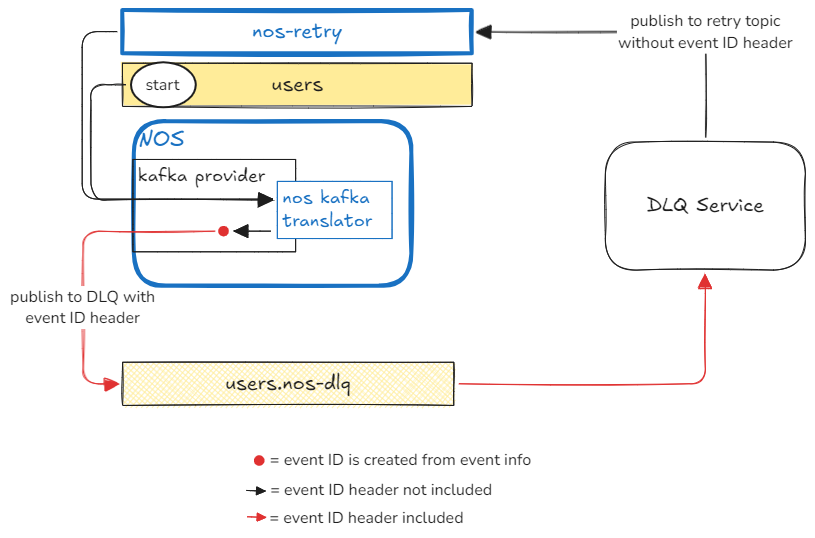
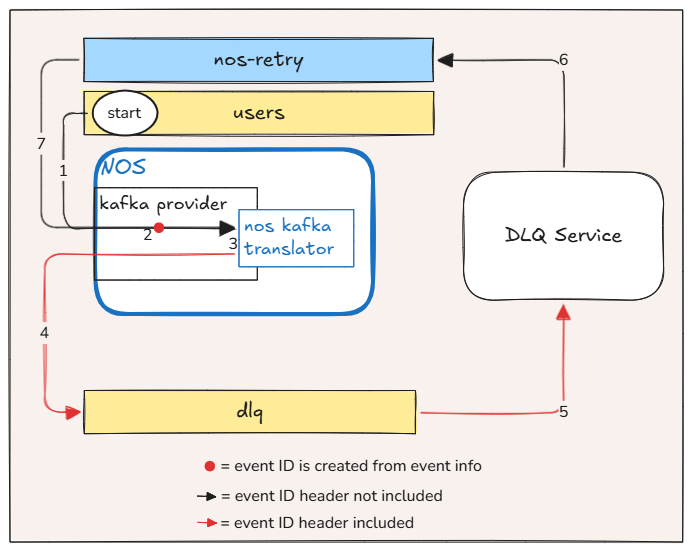
Fix second diagram

diff --git a/61-matamata-turtle/technical_specification.md b/61-matamata-turtle/technical_specification.md
@@ -149,22 +149,23 @@ This differs from the correlation ID, which is propagated across services and pe
 in the database in the case of outbox events.
 
 Consider this example where some unnamed service publishes an event to the
-the `users` topic and the `NOS` service consumes it:
+the `users` topic, where the event is stored in partition 0 at offset 17 and later
+consumed by the `NOS`:
 
 ![Event ID usage](./images/event%20ID.png)
-1. An event is published to the "users" topic, where it is stored at partition 0, offset 17.
-2. The `hexkit` Kafka provider used by the `NOS` gets the message from `aiokafka`.
+1. The `hexkit` Kafka provider used by the `NOS` gets the message from `aiokafka`.
+2. The `aiokafka` version of the event is formatted into an instance of the
+   `ExtractedEventInfo` class, where its event ID is created.
 3. The Kafka provider hands the transformed event over to the service-defined
    translator, which performs some business logic driven by the event.
-4. The translator encounters an error which it cannot mitigate, and all retries fail.
-5. The Kafka provider logs the error, including the event ID (`"nos,users,0,17"`).
-6. The Kafka provider publishes the event with the event ID header to the DLQ topic.
-   - The original topic header is also included.
-7. We use the DLQ service to take a look at the failed event.
-8. We learn the problem was actually a database issue that we've since fixed.
-9.  We use the DLQ service to publish the event to the retry topic, sans event ID header.
-   Instead, the DLQ service includes a special header with the original topic ("users").
-10. The `NOS` encounters the republished event, this time from its dedicated retry
+   - Here, an error occurs, and all retries fail as well.
+   - The Kafka provider logs the error, including the event ID (`"nos,users,0,17"`).
+4. The Kafka provider publishes the event with the event ID header to the DLQ topic.
+5. We use the DLQ service to take a look at the failed event.
+   - We learn the problem was actually a database issue that we've since fixed.
+6.  We use the DLQ service to publish the event to the retry topic, sans event ID header. Instead, the DLQ service includes a special header with the original topic
+("users").
+7.  The `NOS` encounters the republished event, this time from its dedicated retry
   topic. The Kafka provider understands that the retry topic is special, so it obtains
   the topic field from the original topic header. If the retry event fails again, the
   old event ID would be misleading had we modified the event in the DLQ service.
